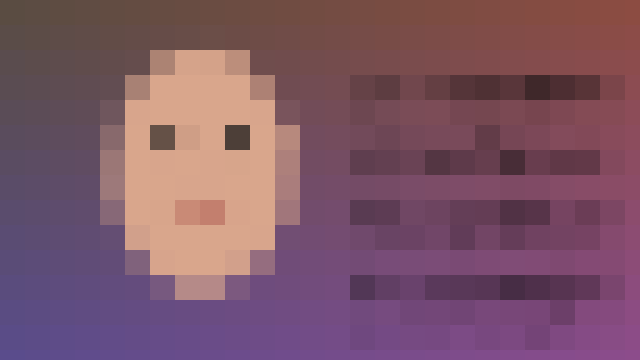
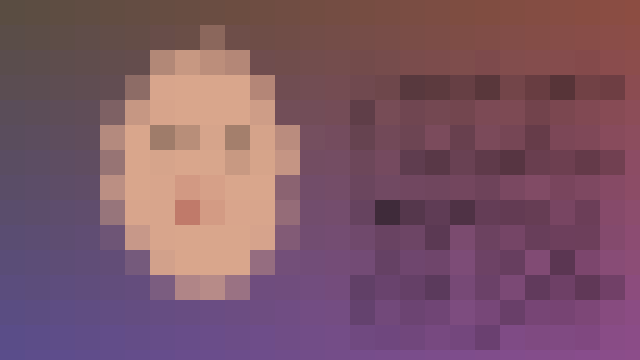
Tune default parameters and bump to 1.2.0
New defaults: Distortion Amount 15, Distortion Scale 10, Blur Radius 15,
Mosaic Block Size 25 (unchanged). Applied to the shared header (all hosts)
and to the published Motion templates, which store their own copies of the
parameter values.

diff --git a/shared/AnonymizerAlgo.h b/shared/AnonymizerAlgo.h
@@ -24,15 +24,15 @@
 */
 #define DISTORT_AMOUNT_MIN   0.0
 #define DISTORT_AMOUNT_MAX   200.0
-#define DISTORT_AMOUNT_DFLT  10.0
+#define DISTORT_AMOUNT_DFLT  15.0
 
 #define DISTORT_SCALE_MIN    4.0
 #define DISTORT_SCALE_MAX    400.0
-#define DISTORT_SCALE_DFLT   4.0
+#define DISTORT_SCALE_DFLT   10.0
 
 #define BLUR_RADIUS_MIN      0.0
 #define BLUR_RADIUS_MAX      100.0
-#define BLUR_RADIUS_DFLT     10.0
+#define BLUR_RADIUS_DFLT     15.0
 
 #define MOSAIC_SIZE_MIN      1.0
 #define MOSAIC_SIZE_MAX      256.0

diff --git a/ofx/AnonymizerOFX.cpp b/ofx/AnonymizerOFX.cpp
@@ -41,7 +41,7 @@
 	"stack with solid black."
 #define kPluginIdentifier ANON_OFX_PLUGIN_ID
 #define kPluginVersionMajor 1
-#define kPluginVersionMinor 1
+#define kPluginVersionMinor 2
 
 #define kSupportsTiles false
 #define kSupportsMultiResolution false

diff --git a/src/Anonymizer.h b/src/Anonymizer.h
@@ -60,7 +60,7 @@ enum
 };
 
 #define	MAJOR_VERSION   1
-#define	MINOR_VERSION   1
+#define	MINOR_VERSION   2
 #define	BUG_VERSION     0
 #define	STAGE_VERSION   PF_Stage_DEVELOP
 #define	BUILD_VERSION   0

diff --git a/README.md b/README.md
@@ -25,9 +25,9 @@ attacker would have to jointly undo three lossy, keyed transforms.
 
 | Parameter | Default | Notes |
 |---|---|---|
-| Distortion Amount | 10 px | Maximum displacement of the warp field |
-| Distortion Scale | 4 px | Size of the noise features |
-| Blur Radius | 10 px | Gaussian radius (sigma = radius/2) |
+| Distortion Amount | 15 px | Maximum displacement of the warp field |
+| Distortion Scale | 10 px | Size of the noise features |
+| Blur Radius | 15 px | Gaussian radius (sigma = radius/2) |
 | Mosaic Block Size | 25 px | Pixelation block size |
 | Random Seed | 0 | Change for a different distortion pattern |
 | Temporal Jitter | On | New distortion pattern every frame |
